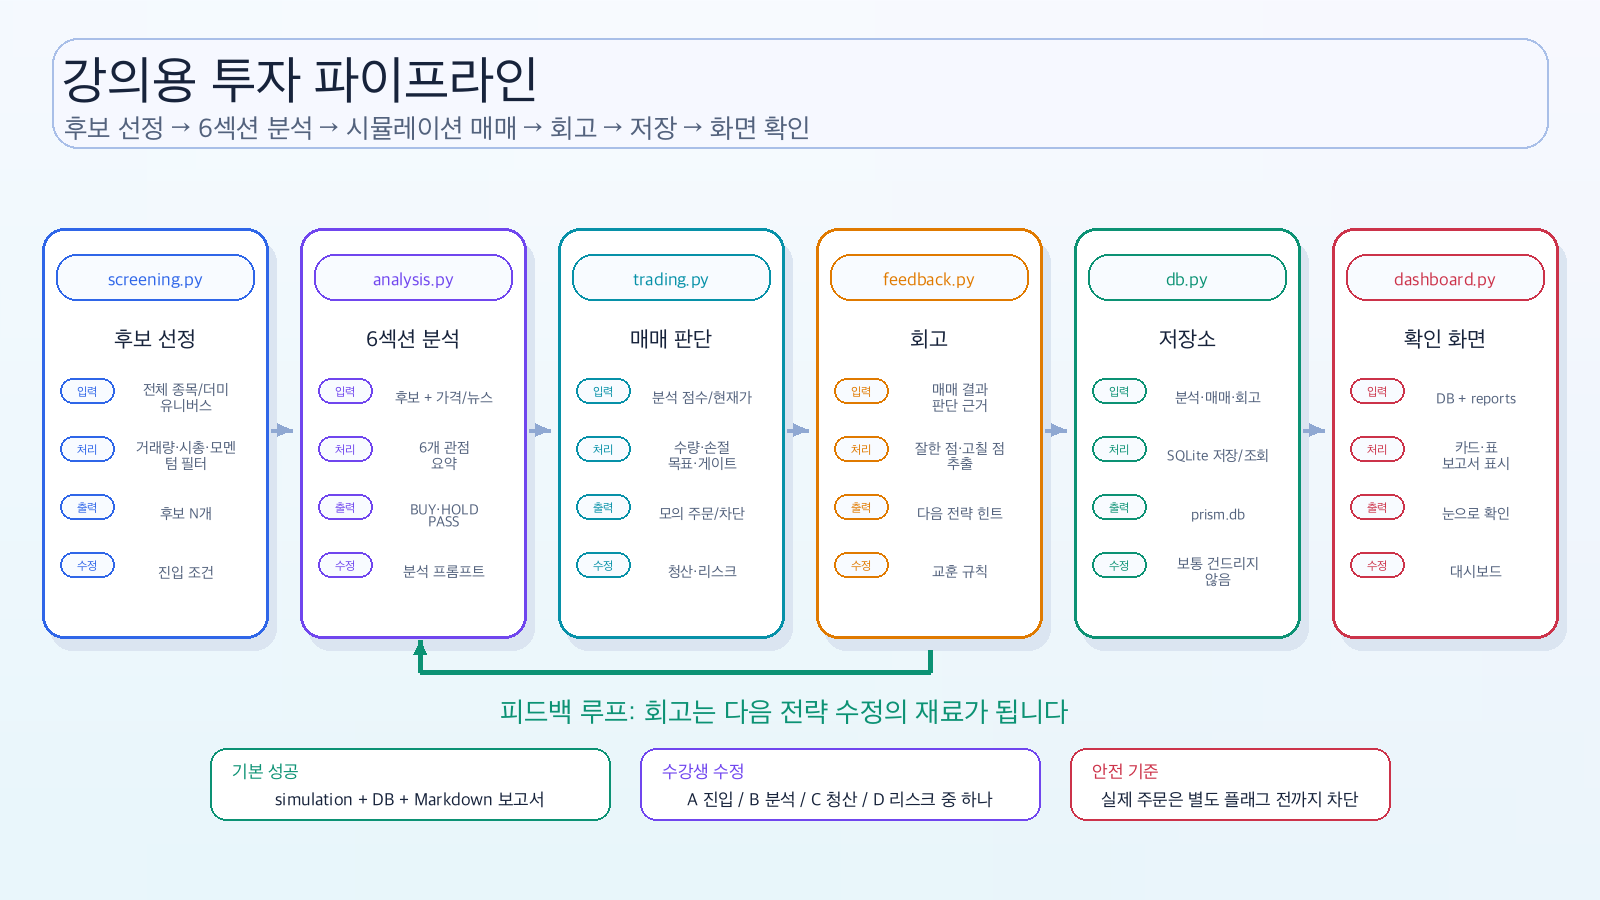
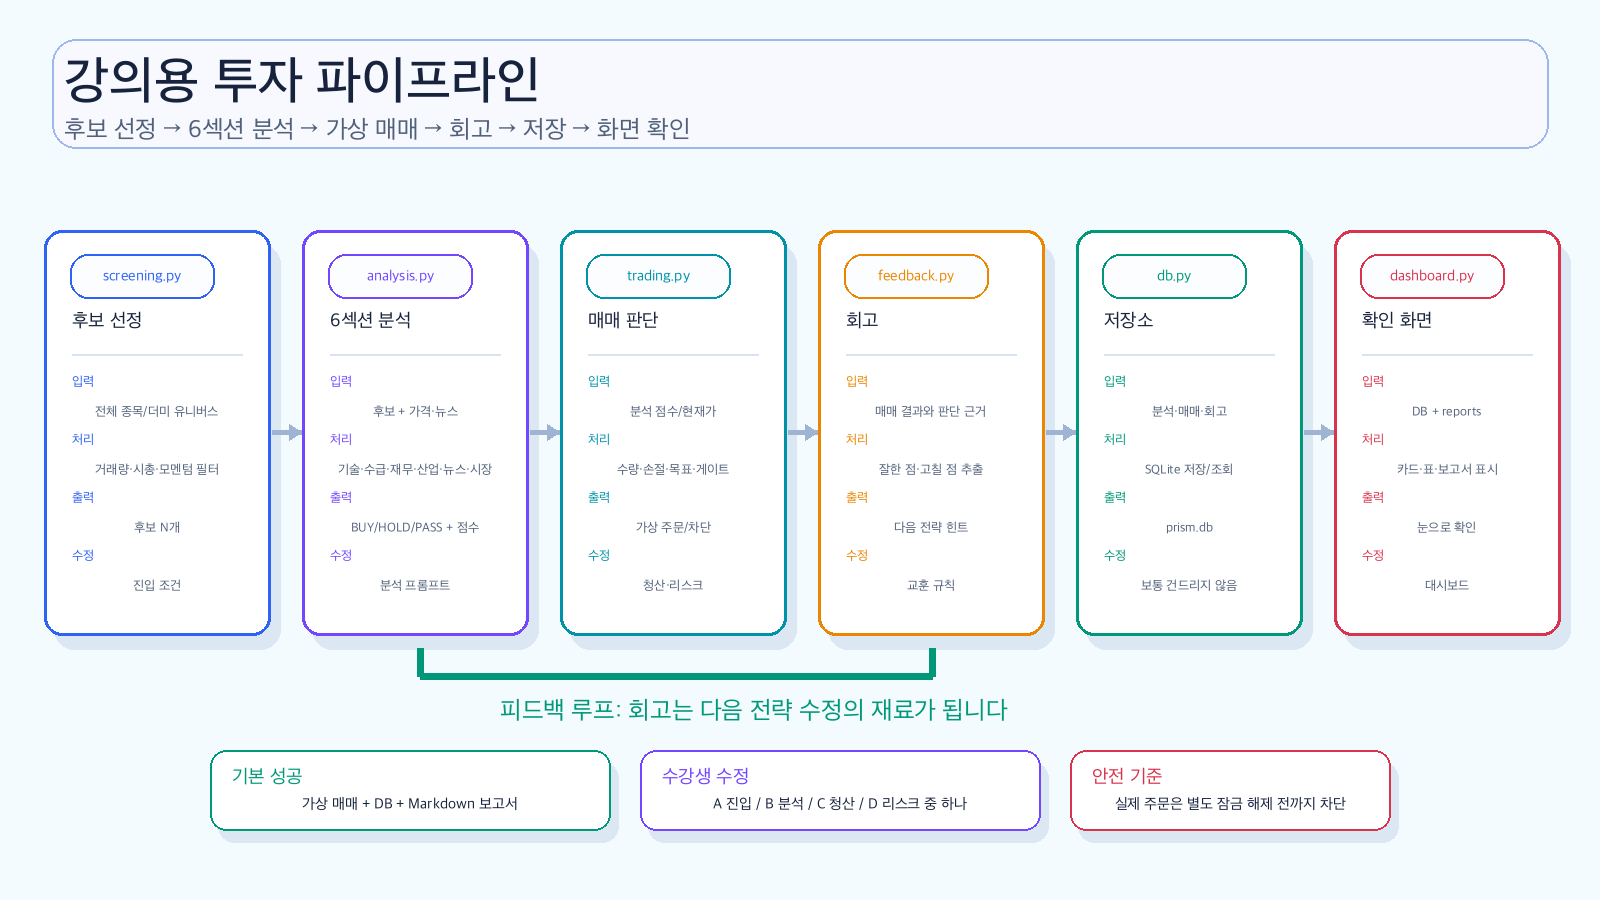
Make learner docs sound natural for Korean beginners
The README-linked docs already had the right prompt-first structure, but several phrases still read like maintainer prose or translated developer vocabulary. This pass keeps the technical facts and safety rules intact while making the Korean more natural for non-developers and vibe-coding beginners.

The README image assets were regenerated as exact-text Korean PNG diagrams so the visual language matches the revised docs without relying on model-rendered Hangul.

Constraint: Keep API-key-free demo mode and fail-closed live trading guidance unchanged.

Rejected: Use generated-image text directly | Korean text fidelity is too risky for instructional diagrams.

Confidence: high

Scope-risk: narrow

Directive: Keep student-facing docs prompt-first and avoid direct terminal-first walkthroughs.

Tested: PYTHONPYCACHEPREFIX=/private/tmp/lecture-prism-pycache python3 main.py

Tested: PYTHONPYCACHEPREFIX=/private/tmp/lecture-prism-pycache python3 -m unittest discover -s tests -v

Tested: PYTHONPYCACHEPREFIX=/private/tmp/lecture-prism-pycache python3 -m compileall main.py analysis.py screening.py trading.py feedback.py db.py dashboard.py

diff --git a/docs/runtime-profiles.md b/docs/runtime-profiles.md
@@ -1,36 +1,36 @@
 # 런타임 프로필 가이드
 
-lecture-prism은 한 저장소 안에서 초급자용 더미 데모부터 고급자용 실데이터·리서치·브로커 연동까지 단계적으로 켤 수 있습니다.
+lecture-prism은 한 저장소 안에서 초급자용 더미 데모부터 고급자용 실데이터·리서치·브로커 연결까지 단계적으로 켤 수 있습니다.
 
 수강생이 기본적으로 만지는 파일은 두 개입니다.
 
 | 파일 | 역할 |
 |---|---|
 | `.env` | 더미/실데이터/리서치/매매 수준 선택, API 키 입력 |
-| `trading/trading/config/kis_devlp.yaml` | KIS 계좌번호, App Key, App Secret, demo/real 계좌 설정 |
+| `trading/trading/config/kis_devlp.yaml` | KIS 계좌번호, App Key, App Secret, 모의/실전 계좌 설정 |
 
-처음에는 `.env.example`을 참고해 `.env`를 만들고 `LECTURE_PROFILE=mock`으로 시작하세요. 이 값이면 API 키가 없어도 스크리닝, 분석, 시뮬레이션 매매, 피드백 저장, Markdown 보고서 생성까지 돌아갑니다.
+처음에는 `.env` 없이도 됩니다. 설정을 따로 만들고 싶다면 `.env.example`을 참고해 `.env`를 만들고 `LECTURE_PROFILE=mock`으로 시작하세요. 이 값이면 API 키가 없어도 스크리닝, 분석, 가상 매매, 피드백 저장, Markdown 보고서 생성까지 돌아갑니다.
 
 ## 1. 프로필 한 줄로 고르기
 
 | 프로필 | 데이터 | 분석 보고서 | 매매 | 추천 대상 |
 |---|---|---|---|---|
-| `mock` | 더미 데이터 | 6섹션 lite 보고서 | 시뮬레이션 | 첫 실행, Part 4 전략 실습 |
-| `real_data` | yfinance 실데이터 폴백 | 6섹션 lite 보고서 | 시뮬레이션 | 실제 가격·거래량으로 보고 싶은 수강생 |
-| `research` | 실데이터 | LLM + Perplexity/Firecrawl 선택 리서치 | 시뮬레이션 | 원본 PRISM에 가까운 분석을 원하는 수강생 |
+| `mock` | 더미 데이터 | 6섹션 기본 보고서 | 가상 매매 | 첫 실행, Part 4 전략 실습 |
+| `real_data` | yfinance 실데이터, 실패하면 더미 데이터 | 6섹션 기본 보고서 | 가상 매매 | 실제 가격·거래량으로 보고 싶은 수강생 |
+| `research` | 실데이터 | LLM + Perplexity/Firecrawl 선택 리서치 | 가상 매매 | 원본 PRISM에 가까운 분석을 원하는 수강생 |
 | `paper` | 실데이터 | research 보고서 | 증권사 모의투자 경로 | KIS/키움 모의투자 키가 있는 수강생 |
 | `live` | 실데이터 | research 보고서 | 실전투자 경로 | 강의 이후 본인이 책임지고 운영할 고급 사용자 |
 
 ```text
 내 .env를 lecture-prism 런타임 프로필 방식으로 점검해줘.
 내 목표는 [mock / real_data / research / paper / live] 중 하나야.
-필요한 키가 빠졌는지 확인하고, 빠진 키가 있어도 더 낮은 단계로 안전하게 폴백되는지 설명해줘.
+필요한 키가 빠졌는지 확인하고, 빠진 키가 있어도 더 안전한 단계로 돌아가는지 설명해줘.
 실거래는 내가 명시적으로 원하기 전까지 절대 켜지 마.
 ```
 
 ## 2. 세부 스위치
 
-프로필만으로 충분하지 않을 때는 아래 값을 직접 조정할 수 있습니다.
+프로필만으로 부족할 때는 아래 값을 직접 조정할 수 있습니다.
 
 | 값 | 선택지 | 의미 |
 |---|---|---|
@@ -42,7 +42,7 @@ lecture-prism은 한 저장소 안에서 초급자용 더미 데모부터 고급
 | `LECTURE_TRADE_MODE` | `simulation`, `demo`, `real` | 매매 실행 수준 |
 | `LECTURE_SAVE_REPORTS` | `1`, `0` | `reports/` Markdown 저장 여부 |
 
-중요한 점은 각 스위치가 실패해도 파이프라인이 멈추지 않도록 낮은 단계로 폴백한다는 것입니다. 예를 들어 `research`를 골랐지만 `PERPLEXITY_API_KEY`가 없으면 Perplexity 리서치만 빠지고, 기본 뉴스/데이터 분석은 계속 진행됩니다.
+중요한 점은 각 스위치가 실패해도 전체 실행이 멈추지 않고 더 안전한 단계로 돌아간다는 것입니다. 예를 들어 `research`를 골랐지만 `PERPLEXITY_API_KEY`가 없으면 Perplexity 리서치만 빠지고, 기본 뉴스/데이터 분석은 계속 진행됩니다.
 
 ## 3. 추천 조합
 
@@ -64,7 +64,7 @@ LECTURE_DATA_MODE=auto
 LECTURE_TRADE_MODE=simulation
 ```
 
-얻는 것: yfinance가 가능하면 실데이터를 쓰고, 실패하면 mock으로 돌아갑니다.
+얻는 것: yfinance가 가능하면 실데이터를 쓰고, 실패하면 더미 데이터로 돌아갑니다.
 
 ### 고급자: 원본 PRISM에 가까운 리서치 보고서
 
@@ -93,7 +93,7 @@ LECTURE_KIS_MODE=demo
 
 추가로 `trading/trading/config/kis_devlp.yaml`에 KIS 모의투자 App Key, App Secret, HTS ID, 계좌번호를 채웁니다.
 
-주의: `LECTURE_ENABLE_LIVE_BROKER=1`은 브로커 API 호출을 허용한다는 뜻입니다. demo 모드라도 실제 증권사 API에 요청이 나갑니다.
+주의: `LECTURE_ENABLE_LIVE_BROKER=1`은 브로커 API 호출을 허용한다는 뜻입니다. 모의투자 모드라도 실제 증권사 서버에 요청이 나갈 수 있습니다.
 
 ### 실전투자: 이중 안전장치가 모두 필요
 
@@ -121,7 +121,7 @@ LECTURE_KIS_MODE=real
 | `real_data` | 실가격·거래량 기반 6섹션 보고서 |
 | `research` 이상 | LLM·선택 리서치 도구가 붙은 심화 보고서 |
 
-`reports/`는 런타임 산출물이므로 Git에 올라가지 않습니다.
+`reports/`는 실행할 때 생기는 결과물이므로 Git에 올리지 않습니다.
 
 ## 5. 에이전트에게 맡기는 점검 프롬프트
 
@@ -130,7 +130,7 @@ lecture-prism의 현재 .env와 kis_devlp.yaml 설정을 점검해줘.
 
 확인할 것:
 1. LECTURE_PROFILE 기준으로 어떤 데이터/리포트/매매 수준인지 설명해줘.
-2. 빠진 API 키가 있으면 어떤 기능만 폴백되는지 알려줘.
+2. 빠진 API 키가 있으면 어떤 기능만 꺼지는지 알려줘.
 3. main.py 기본 실행이 API 키 없이도 깨지지 않는지 확인해줘.
 4. demo 또는 real 매매가 켜져 있다면 안전 플래그가 의도와 맞는지 확인해줘.
 5. 실제 주문 가능성이 있으면 빨간불로 표시하고, 내가 원하지 않는 한 simulation으로 되돌려줘.

diff --git a/docs/agent-prompt-equivalence.md b/docs/agent-prompt-equivalence.md
@@ -1,12 +1,12 @@
 # 명령어를 코딩 에이전트 프롬프트로 바꾼 대응표
 
-이 문서는 README와 실습 문서에서 수강생이 직접 입력하던 명령어를 코딩 에이전트 프롬프트로 바꾼 이유와 검증 기준을 정리합니다.
+이 문서는 README와 실습 문서에서 수강생이 직접 입력하던 명령어를 코딩 에이전트 프롬프트로 바꾼 이유와 확인 기준을 정리합니다.
 
 ## 원칙
 
 - 수강생은 터미널 명령어를 외우지 않습니다.
 - 수강생은 “원하는 결과”를 코딩 에이전트에게 말합니다.
-- 코딩 에이전트는 필요한 명령을 실행하고, 결과 로그를 읽어 성공·실패를 판정합니다.
+- 코딩 에이전트는 필요한 명령을 실행하고, 결과 로그를 읽어 성공·실패를 판단합니다.
 - 프롬프트에는 반드시 “실행 후 검증해줘”가 들어가야 합니다.
 
 ## 대응표
@@ -17,7 +17,7 @@
 | 전체 실행 | `main.py` 실행 | “전체 파이프라인을 데모 모드로 실행해줘.” | 스크리닝→분석→매매→피드백 로그가 순서대로 출력 |
 | 스크리닝 실행 | `screening.py` 실행 | “screening.py만 실행해서 후보 선정 과정을 설명해줘.” | 최종 선정 종목 리스트가 출력 |
 | 단일 종목 분석 | `analysis.py`에 종목코드 전달 | “삼성전자 005930을 분석해줘.” | 추천, 점수, 근거, 리스크가 출력 |
-| 실제 LLM 연결 | OAuth 프록시 로그인·기동·환경변수 설정 | “내장 ChatGPT OAuth 프록시를 사용해 로그인, health check, analysis.py 실행까지 검증해줘.” | `cores/chatgpt_proxy` 사용, `/health` 정상, 실제 LLM 또는 mock 폴백 여부 보고 |
+| 실제 LLM 연결 | OAuth 프록시 로그인·실행·환경변수 설정 | “내장 ChatGPT OAuth 프록시를 사용해 로그인, 연결 상태 확인, analysis.py 실행까지 검증해줘.” | `cores/chatgpt_proxy` 사용, `/health` 정상, 실제 LLM 또는 더미 응답 여부 보고 |
 | 청산 데모 | `trading.py` 청산 옵션 실행 | “trading.py의 청산 데모를 실행해줘.” | 손절·트레일링·목표가 시나리오가 각각 출력 |
 | 대시보드 실행 | `dashboard.py` 실행 후 브라우저 접속 | “dashboard.py를 실행해서 로컬 대시보드를 열 수 있게 도와줘.” | 서버 실행 로그와 접속 주소 확인, `/api/data` 또는 화면 데이터 확인 |
 | Git 제출 | 브랜치 생성, add, commit, push | “내 이름 브랜치로 커밋하고 push해줘. 먼저 보안 파일 포함 여부를 확인해줘.” | 현재 브랜치 확인, 커밋 생성, 원격 push 성공 또는 실패 원인 분류 |
@@ -35,7 +35,7 @@
 
 ## 코딩 에이전트가 반드시 확인해야 하는 것
 
-초기 셋팅 프롬프트를 받은 코딩 에이전트는 다음을 확인해야 합니다.
+초기 설정 프롬프트를 받은 코딩 에이전트는 다음을 확인해야 합니다.
 
 - 현재 작업 폴더가 `lecture-prism` 루트인지
 - Python 3.10 이상이 있는지
@@ -65,9 +65,9 @@
 
 | 검증 항목 | 결과 |
 |---|---|
-| 전체 파이프라인 데모 실행 | 성공. 스크리닝 → 분석 → 시뮬레이션 매매 → 피드백 저장 순서로 완료 |
+| 전체 파이프라인 데모 실행 | 성공. 스크리닝 → 분석 → 가상 매매 → 피드백 저장 순서로 완료 |
 | 스크리닝 단독 실행 | 성공. 데모 후보 `005930`, `000660`, `035420` 출력 |
-| 삼성전자 단일 분석 | 성공. mock 폴백 기준 `BUY → 진입`, 매수점수 8/10, 목표가·손절가·손익비·투자기간·근거·리스크 출력 (원본 PRISM scenario 형태) |
+| 삼성전자 단일 분석 | 성공. 더미 응답 기준 `BUY → 진입`, 매수점수 8/10, 목표가·손절가·손익비·투자기간·근거·리스크 출력 (원본 PRISM scenario 형태) |
 | 청산 데모 | 성공. 트레일링 스탑, 손절, 목표가 도달 3개 시나리오 출력 |
 | 대시보드 데이터 로딩 | 성공. `trades`, `analyses`, `lessons` 데이터 구조 확인 |
 | 파이썬 문법 검사 | 성공. 주요 실행 파일 컴파일 통과 |
@@ -75,4 +75,4 @@
 | 수강생 문서 명령어 스캔 | 성공. README, docs, 실습 가이드, 커리큘럼 HTML에서 직접 실행용 Git/Python/pip/npm/curl 명령 블록 제거 확인 |
 | README/아키텍처 이미지 파일 | 성공. 한글 내장형 PNG 7개 존재 확인, README와 `docs/architecture.md`에서 SVG/Mermaid 참조 제거 |
 
-주의: “프롬프트가 100% 같은 결과를 낸다”는 말은 코딩 에이전트가 프롬프트 안의 실행·검증 조건을 그대로 따를 때를 의미합니다. 그래서 모든 프롬프트에 “네가 실행하고 결과를 확인해줘”, “실거래 금지”, “API 키 없이 데모 모드” 같은 검증 조건을 함께 넣었습니다.
+주의: “프롬프트가 100% 같은 결과를 낸다”는 말은 코딩 에이전트가 프롬프트 안의 실행·검증 조건을 그대로 따를 때를 뜻합니다. 그래서 모든 프롬프트에 “네가 실행하고 결과를 확인해줘”, “실거래 금지”, “API 키 없이 데모 모드” 같은 확인 조건을 함께 넣었습니다.

diff --git a/docs/why-multi-agent.md b/docs/why-multi-agent.md
@@ -7,22 +7,22 @@
 ---
 
 ## 한 줄 요지
-"분석 한 방을 LLM 1콜에 통째로 맡기면 **정확도·일관성**이 떨어지고, 매매에서는 **LLM의 평균 회귀 편향**까지 겹친다. 그래서 ① 역할을 여러 에이전트로 쪼개고, ② 특히 매매 에이전트에는 철학·방향성을 **프로그래밍 수준의 구체적 가이드**로 주입한다."
+"분석을 LLM 한 번 호출에 통째로 맡기면 **정확도·일관성**이 떨어지고, 매매에서는 **LLM의 평균 회귀 편향**까지 겹친다. 그래서 ① 역할을 여러 에이전트로 쪼개고, ② 특히 매매 에이전트에는 철학·방향성을 **코드처럼 구체적인 기준**으로 넣는다."
 
 ---
 
 ## 1. LLM 1콜의 구조적 한계
 
 ### 1-1. 아웃풋의 한계
-- 한 번의 호출이 만들어내는 출력의 길이·깊이에는 한계가 있다.
-- 분석 대상(기술·재무·뉴스·시장·전략…)을 한 응답에 다 욱여넣으면, 각 항목이 **얕게** 다뤄진다.
+- 한 번의 호출이 만들어내는 답변 길이와 깊이에는 한계가 있다.
+- 분석 대상(기술·재무·뉴스·시장·전략…)을 한 응답에 다 넣으면, 각 항목이 **얕게** 다뤄진다.
 
 ### 1-2. 인풋이 많을수록 가중치가 선택적으로 쏠린다
-- 입력이 길고 많아지면 모델은 그중 **일부에만 선택적으로 가중치**를 두고 반응한다.
+- 입력이 길고 많아지면 모델은 그중 **일부에만 더 크게 반응**한다.
 - 결과적으로 **정확도가 낮아지고**, 같은 입력에도 매번 강조점이 달라져 **일관성이 떨어진다.**
 - (보조 개념: 긴 컨텍스트에서 중간 정보가 묻히는 현상 — "lost in the middle". 강사 경험과 일치.)
 
-> 정리: **하나의 큰 질문 < 여러 개의 작은 전문 질문.** 작은 컨텍스트로 좁게 물을수록 각 응답이 깊고 일관된다.
+> 정리: **하나의 큰 질문 < 여러 개의 작은 전문 질문.** 좁게 물을수록 답변이 깊고 일관된다.
 
 ---
 
@@ -45,10 +45,10 @@
 - 분리된 결과를 순차로 엮는다(Prompt Chaining). (lecture-prism은 기술→뉴스→전략 3에이전트로 경량 구현)
 
 ### 3-2. 매매 에이전트에는 철학을 "프로그래밍 수준"으로 주입한다
-- 매매 에이전트는 특히 **매매철학과 방향성**을 명시적으로 주입해야 한다.
+- 매매 에이전트에는 특히 **매매철학과 방향성**을 명확히 넣어야 한다.
 - "잘 판단해줘"가 아니라, **구체적 규칙·임계값·제약을 코드 수준으로** 준다:
   - 예: 추세추종(오닐) 방향성, 손절 -7%/-5%, 목표가는 마일스톤·트레일링 우선, 매수 점수 임계값, 슬롯/섹터/현금 제약 등
-- 이렇게 해야 LLM의 평균 회귀 편향을 **설계로 억제**하고, 판단의 일관성을 확보한다.
+- 이렇게 해야 LLM의 평균 회귀 편향을 **설계로 줄이고**, 판단의 일관성을 확보한다.
 
 > 핵심: **LLM의 자유도는 분석에서 활용하되, 매매 의사결정에서는 규칙으로 가둔다.**
 
@@ -57,7 +57,7 @@
 ## 4. 강의 적용 포인트
 - **CH3 (분석 파이프라인)**: §1·§3-1 — "1개 에이전트 vs 분리된 여러 에이전트"를 결과로 증명할 때 위 근거 사용.
 - **CH4 (매매 실행)**: §2·§3-2 — "왜 매매 에이전트는 자유롭게 두면 안 되고 프로그래밍 수준 가이드가 필요한가".
-- **AI-Native 전략 철학**: 알고리즘은 공개 즉시 파훼되지만, *철학을 주입한 LLM 판단*은 복제 불가 → 분할·주입 설계가 그 차별점의 기반.
+- **AI-Native 전략 철학**: 알고리즘은 공개되면 금방 따라 할 수 있지만, *철학을 넣은 LLM 판단*은 그대로 복제하기 어렵다. 분할·주입 설계가 그 차이를 만든다.
 
 ---
 

diff --git a/docs/defaults-and-philosophy.md b/docs/defaults-and-philosophy.md
@@ -1,6 +1,6 @@
 # 기본 설정값 & 매매 철학
 
-각 모듈에는 미리 정해둔 **기본값(디폴트)**이 있습니다. 파트4에서 이 값을 바꾸기 전에,
+각 모듈에는 미리 정해둔 **기본값**이 있습니다. 파트4에서 이 값을 바꾸기 전에,
 **"왜 이 값인지"**를 먼저 이해하면 본인 전략으로 바꿀 때 길을 잃지 않습니다.
 모든 값은 코드 상단 상수로 모여 있어 한 줄만 고치면 동작이 실제로 바뀝니다.
 
@@ -49,7 +49,7 @@
 | `TAKE_PROFIT` | `+15%` | 목표가 도달 = 청산 신호(마일스톤) |
 | `TRAILING_STOP` | `-8%` | 고점 대비 8% 되돌림 시 청산 |
 
-- **포지션 사이징**: 가용현금 `= 총현금 × (1 − 0.7)` → 남은 슬롯에 **균등 배분**.
+- **살 금액 계산(포지션 사이징)**: 가용현금 `= 총현금 × (1 − 0.7)` → 남은 슬롯에 **균등 배분**.
 - **청산 점검 순서**: ① 손절 → ② 트레일링 스탑 → ③ 목표가 마일스톤.
 
 > ⚠ **실제 PRISM-INSIGHT와의 차이**: lecture-prism은 이해를 돕기 위해 *현금비중 기반 균등배분*으로 단순화했습니다.
@@ -58,7 +58,7 @@
 
 ## 피드백 — 메모리 & 자기개선 (`feedback.py`)
 
-인간 투자자의 **매매일지와 동일한 구조**입니다. 교훈을 추출해 다음 매매 판단에 반영합니다.
+사람이 쓰는 **매매일지와 같은 구조**입니다. 교훈을 뽑아 다음 매매 판단에 반영합니다.
 
 | 메모리 계층 | 담는 것 |
 |---|---|
@@ -67,5 +67,5 @@
 | 장기 (월간) | 시장 체제 판단, 전략 수정 이력 |
 
 > 💡 이 값들은 모두 **출발점**일 뿐입니다. 파트4에서 본인의 매매 이론(진입/청산/리스크)에 맞게
-> 자유롭게 바꿔보세요 — 바꾼 뒤 데모 모드로 실행하면 결과가 어떻게 달라지는지 바로 확인할 수 있습니다.
+> 자유롭게 바꿔보세요. 바꾼 뒤 데모 모드로 실행하면 결과가 어떻게 달라지는지 바로 확인할 수 있습니다.
 > 값을 실제로 바꾸는 실습은 [`../lecture/exercises/part4_실습가이드.md`](../lecture/exercises/part4_실습가이드.md)를 참고하세요.

diff --git a/docs/harness-lite.md b/docs/harness-lite.md
@@ -11,7 +11,7 @@
 - “뉴스 좋은 애만 보면 안 돼요?”
 - “몰빵은 무서워요.”
 
-Strategy Harness Lite는 이런 표현을 아래 네 트랙 중 하나로 자동 정리하도록 돕습니다.
+Strategy Harness Lite는 이런 표현을 아래 네 트랙 중 하나로 정리하도록 돕습니다.
 
 | 트랙 | 의미 | 파일 |
 |---|---|---|
@@ -69,13 +69,13 @@ MY_STRATEGY.md를 읽고 내 전략을 lecture-prism에 반영해줘.
 
 ## API 키와 브로커 설정은 별도 트랙
 
-Strategy Harness Lite의 목표는 **내 전략을 코드 한 곳에 반영하는 것**입니다. 실데이터, Perplexity, Firecrawl, KIS 모의투자 같은 외부 연동은 전략 하네스가 직접 섞어 처리하지 않습니다.
+Strategy Harness Lite의 목표는 **내 전략을 코드 한 곳에 반영하는 것**입니다. 실데이터, Perplexity, Firecrawl, KIS 모의투자 같은 외부 연결은 전략 하네스가 직접 섞어 처리하지 않습니다.
 
 수업 이후 고급 설정까지 켜고 싶다면 먼저 [`docs/runtime-profiles.md`](runtime-profiles.md)를 보고 `.env`와 `trading/trading/config/kis_devlp.yaml`을 준비한 뒤, 코딩 에이전트에게 아래처럼 말하세요.
 
 ```text
 내 전략 수정은 Strategy Harness Lite 방식으로 유지하되,
-현재 .env 런타임 프로필과 kis_devlp.yaml 설정도 함께 점검해줘.
+현재 .env 실행 단계와 kis_devlp.yaml 설정도 함께 점검해줘.
 전략 검증은 먼저 mock/simulation에서 통과시키고,
 그 다음 내가 선택한 프로필이 real_data/research/paper/live 중 어디까지 실제로 켜지는지 설명해줘.
 실제 주문 가능성이 있으면 먼저 차단 상태인지 확인해줘.
